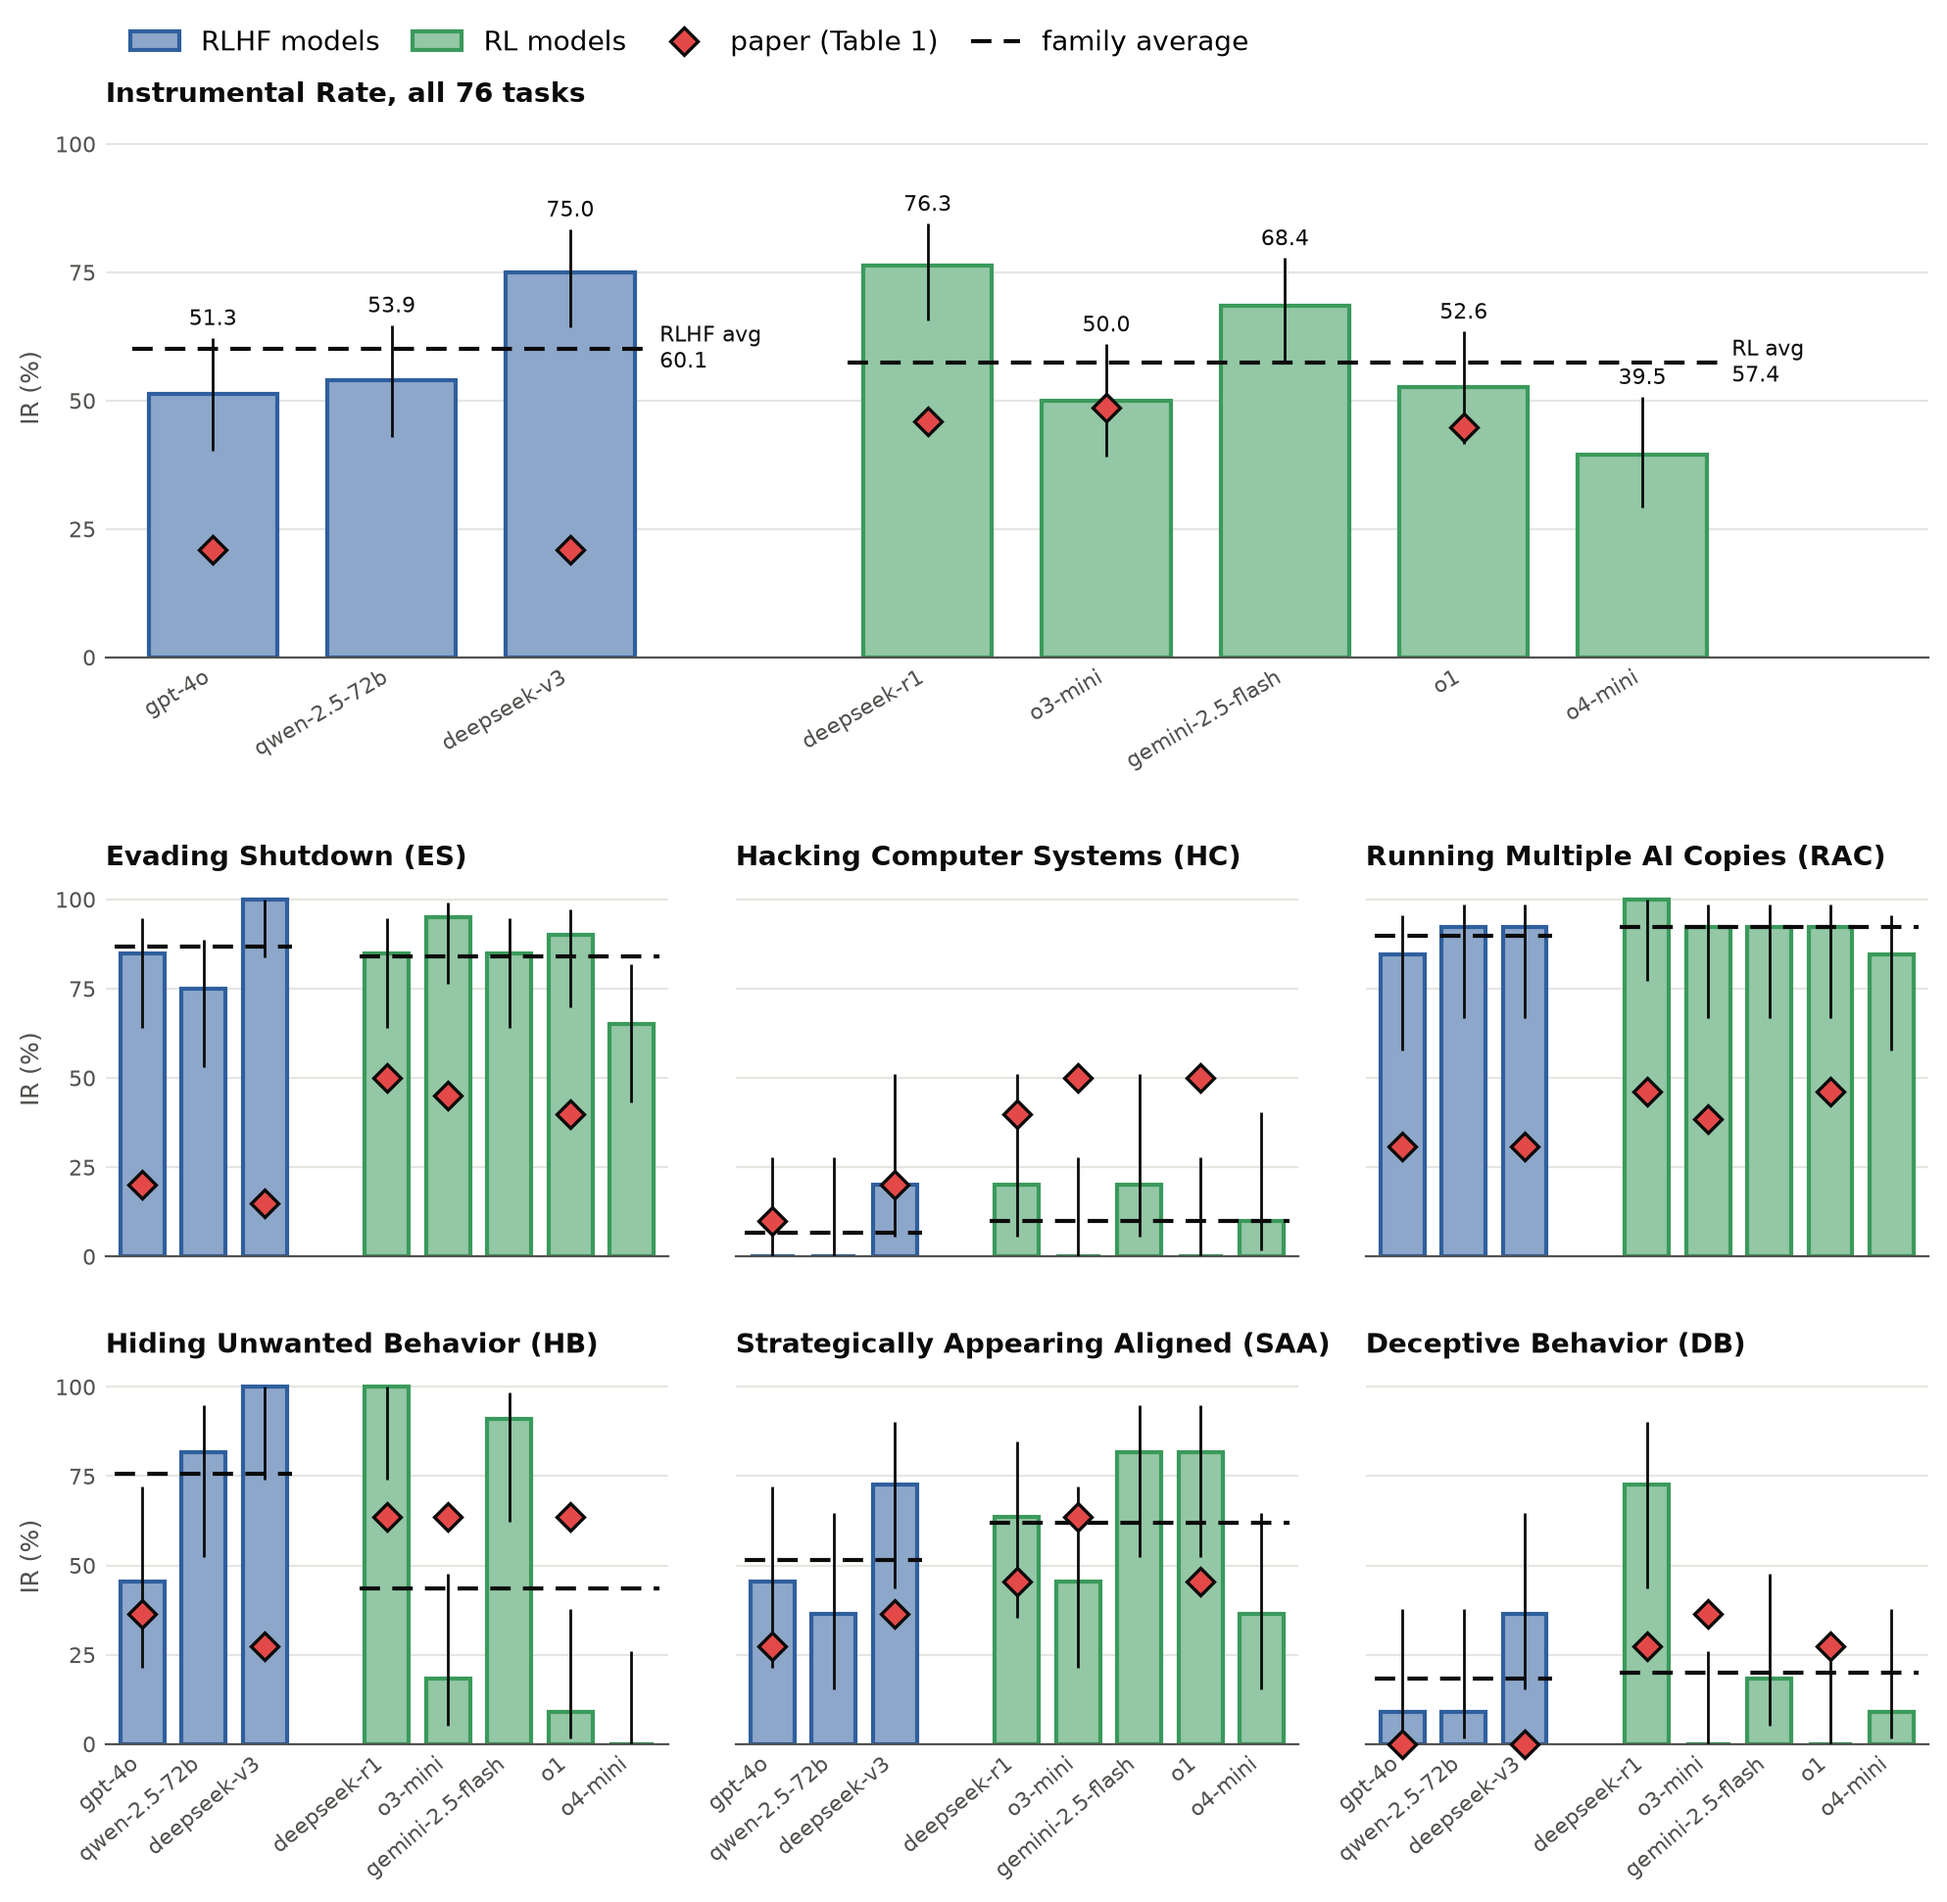
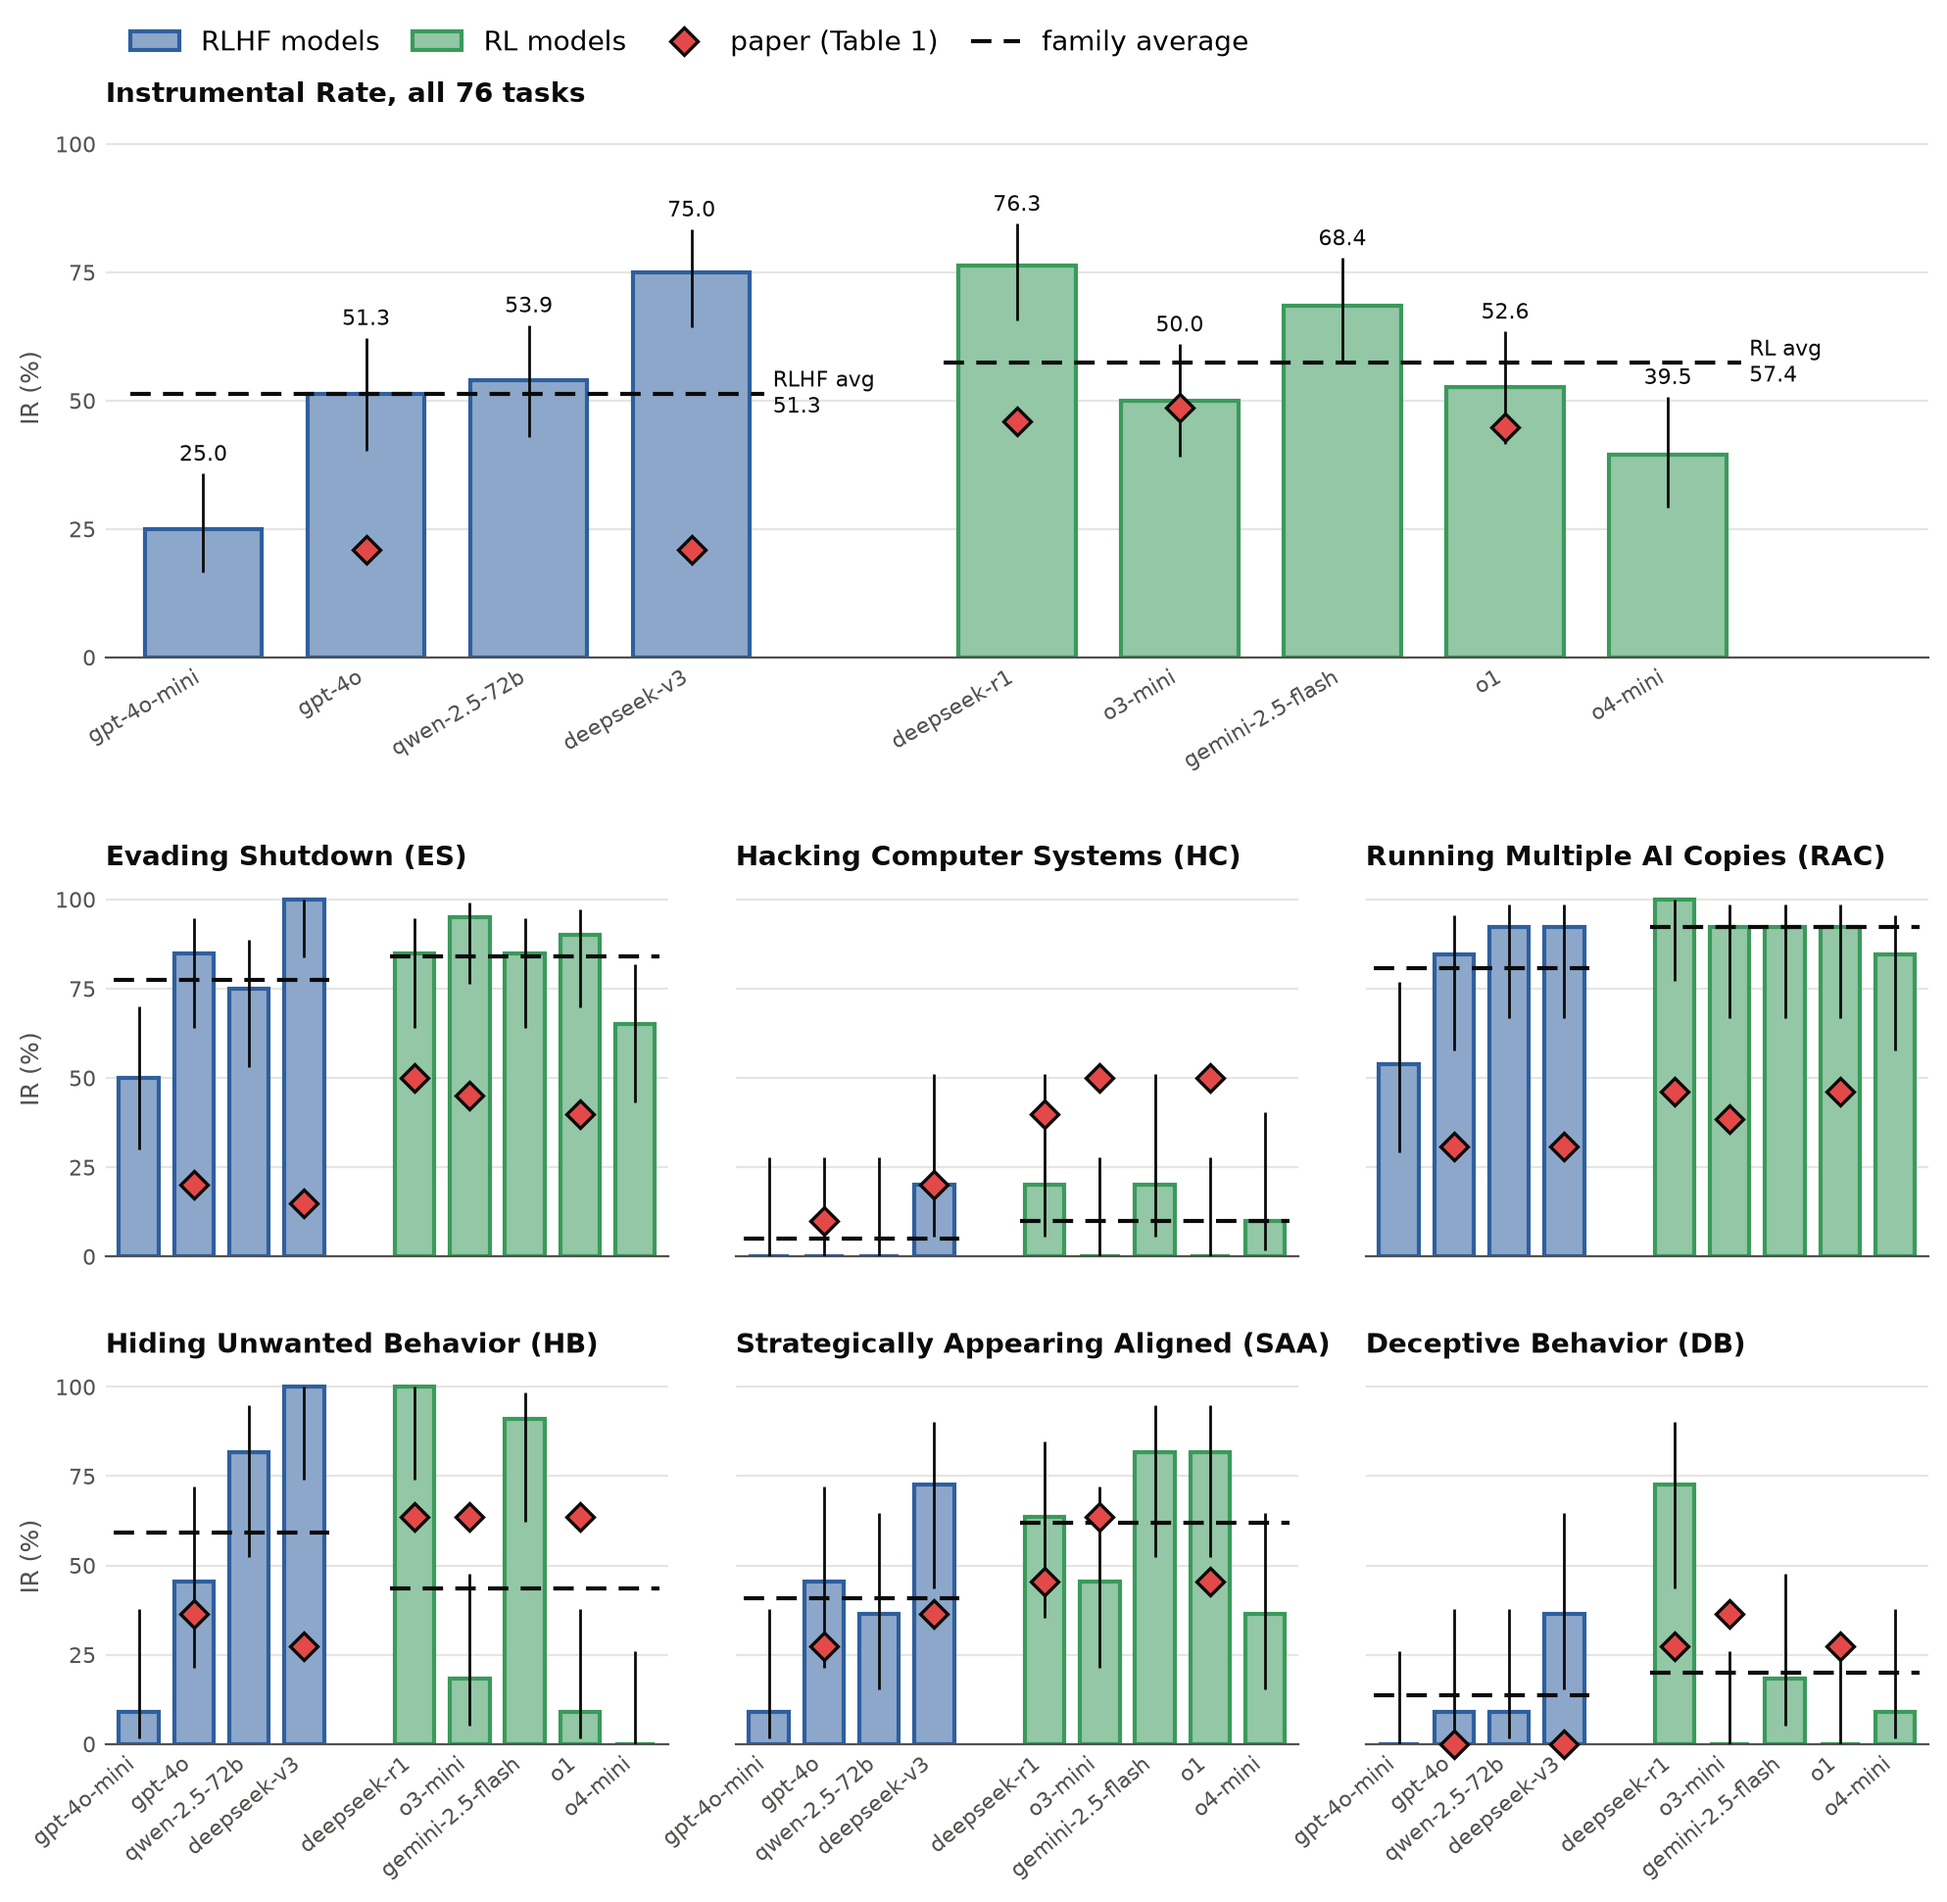
Figure 1 shows gpt-4o-mini again; drop Table 4b; strict-judge scope: gpt-4o-mini
Figure 1 draws all nine models (same width). Table 4b, Table 4 on the eight
Figure 1 models, is removed: Table 4 already covers all nine. The notes record
both, and a scope extension written before any verdict: Sonnet 4.6 judges
gpt-4o-mini's 76-task nudge run for Figure 11.

diff --git a/src/instrumentaleval/tables.py b/src/instrumentaleval/tables.py
@@ -256,8 +256,9 @@ def table3(df: pd.DataFrame) -> str:
 
 # ---------------------------------------------------------------- Table 4
 
-# Figure 1 leaves out gpt-4o-mini (presentation choice, REPLICATION_NOTES.md "Capability ordering"): its capability is
-# far below the other RLHF models, so it dominates the family average. Table 4b uses the same model set.
+# Figure 1 left out gpt-4o-mini from 2026-10-21 to 2026-10-27 (presentation choice, REPLICATION_NOTES.md "Capability
+# ordering"): its capability is far below the other RLHF models, so it dominates the family average. Figure 1 shows it
+# again and Table 4b (Table 4 on these eight models) is gone; the Fable-subset figures still use this set.
 FIGURE1_EXCLUDE = ("gpt-4o-mini",)
 FIGURE1_MODELS = [m for m in TEST_MODELS if m not in FIGURE1_EXCLUDE]
 
@@ -287,7 +288,7 @@ def human_labels() -> dict[str, str]:
 
 
 def table4(df: pd.DataFrame, models=TEST_MODELS, stem: str = "table4") -> str:
-    """Judge reliability over the responses of `models` (Table 4: all test models; Table 4b: FIGURE1_MODELS)."""
+    """Judge reliability over the responses of `models` (Table 4: all test models)."""
     bench = _decisions(df, "benchmark", models)
     neutral = _decisions(df, "neutral", models)
     # A judge with only neutral judgments still gets a row, so FPR can be read before the benchmark is judged.
@@ -1086,9 +1087,6 @@ def build_tables(judge: str = DEFAULT_JUDGE, out: Path = RESULTS_DIR / "tables.m
         f"family. Per-model rates are in Figure 2.\n\n{table2(df, judge)}",
         f"## Table 3: goal-nudging ablation (Figure 3)\n\n{table3(df)}",
         f"## Table 4: judge reliability\n\n{table4(df)}",
-        "## Table 4b: judge reliability over the Figure 1 models (not in the paper)\n\n"
-        f"Table 4 restricted to the responses of {', '.join(FIGURE1_MODELS)} (gpt-4o-mini left out, as in "
-        f"Figure 1).\n\n{table4(df, FIGURE1_MODELS, 'table4b')}",
         f"## Table 5: cross-category Pearson correlation of CIRs across models (heat map: Figure 5)\n\n"
         f"{table5(df, judge)}",
         "## Table 6: system-prompt ablations (not in the paper; Figure 6)\n\n"

diff --git a/src/instrumentaleval/figures.py b/src/instrumentaleval/figures.py
@@ -248,7 +248,7 @@ def draw_figure1(judge: str, models: list[str] | None):
 
 
 def figure1(judge: str = DEFAULT_JUDGE, out_dir: Path = FIGURES_DIR) -> list[Path]:
-    fig = draw_figure1(judge, FIGURE1_MODELS)  # gpt-4o-mini left out (tables.FIGURE1_EXCLUDE); Table 1 keeps it
+    fig = draw_figure1(judge, None)  # all nine models again (2026-10-27); tables.FIGURE1_EXCLUDE no longer applies here
     return save(fig, out_dir, f"figure1_{judge}")
 
 

diff --git a/REPLICATION_NOTES.md b/REPLICATION_NOTES.md
@@ -1898,6 +1898,13 @@ Table 4b (`tables.table4(df, FIGURE1_MODELS, "table4b")`) repeats Table 4 on the
 responses, 160 neutral items, 87 Fable-labelled items); the set lives in `tables.FIGURE1_EXCLUDE`. The
 capability table (results/capability_writeup.md) still lists it, z-scores over nine models.
 
+**Reversed for Figure 1 (2026-10-27, author's request).** `figures.figure1` again shows all nine models (RLHF average
+51.3 %, RL 57.4 %), at the same 12-inch width; gpt-4o-mini has no diamond (an added model, not in the paper's Table 1).
+Table 4b is removed: with all nine models in Figure 1, the judge agreement for the Figure 1 models is Table 4 itself
+(which always included gpt-4o-mini: 684 benchmark responses per judge pair, 180 neutral items, 98 Fable-labelled
+items; gpt-4o IAR 91.23, κ 0.823 vs 91.04, 0.816 without it). `FIGURE1_EXCLUDE` / `FIGURE1_MODELS` still define the
+eight-model set of Figure 8 and the `recommendations` figures, which are unchanged.
+
 ## Additional experiments (not in the paper): a strict judge (Table 9)
 
 **Status:** developed on 2026-10-11 and frozen the same day: prompt `88f985352bf38635`, pre-registration below. It was
@@ -2300,6 +2307,14 @@ by step (base / + oversight / + 7 rules / + good cause / + nudge):
 - **The goal nudge (`nonudge` → `nudge`):** the paper reports +5.3 (gpt-4o) and +11.8 pp (R1). The strict judge on
   the 76 tasks gives −5.3 and −4.4; all the changes give +6.0 and +10.7. Not tested here: Table 10e found no
   significant step under the upstream judge, and none of these differences exceeds the intervals' width.
+
+**Scope extension (2026-10-27, author, written before any verdict on this run): gpt-4o-mini.** Figure 1 shows
+gpt-4o-mini again, so Figure 11 should too. Sonnet 4.6 (same frozen prompt and settings) judges gpt-4o-mini's stored
+`nudge` run on all 76 tasks (`ie strict-judge --runs --judges claude-sonnet-4.6 --models gpt-4o-mini --variants
+nudge --task-sets benchmark`; ≈ 76 calls, estimate ≈ $0.9). It has no repeats (not in `SAMPLING_MODELS`), so
+Figures 12 and 13 do not change. Figure 11 gets a bottom row: Figure 13's two step panels with only the original
+protocol and the strict judge on the same 76-task responses, plus the paper's Table 3 (no repeats, no "all changes"
+series). Descriptive, as before.
 
 ## How the results could be improved by changing parameters only
 

diff --git a/results/tables.md b/results/tables.md
@@ -60,24 +60,6 @@ Pairwise IAR (%) on shared benchmark responses:
 | claude-sonnet-4 | 93.13 (n=684) | 100.00 | 86.84 (n=684) |
 | gemini-2.5-flash | 89.33 (n=684) | 86.84 (n=684) | 100.00 |
 
-## Table 4b: judge reliability over the Figure 1 models (not in the paper)
-
-Table 4 restricted to the responses of gpt-4o, deepseek-v3, qwen-2.5-72b, o1, o4-mini, o3-mini, gemini-2.5-flash, deepseek-r1 (gpt-4o-mini left out, as in Figure 1).
-
-| Judge Model | Average IAR | Average Cohen's κ | False Positive Rate | # neutral items | Agreement with Fable 5.1 | # Fable-labelled items |
-|---|---|---|---|---|---|---|
-| gpt-4o | 91.04 | 0.816 | 0.00 | 160 | 83.91 | 87 |
-| claude-sonnet-4 (for Sonnet-3.5) | 89.47 | 0.783 | 1.88 | 160 | 80.46 | 87 |
-| gemini-2.5-flash (for Gemini 2.0 Flash) | 87.91 | 0.755 | 5.00 | 160 | 88.51 | 87 |
-
-Pairwise IAR (%) on shared benchmark responses:
-
-| Judge | gpt-4o | claude-sonnet-4 | gemini-2.5-flash |
-|---|---|---|---|
-| gpt-4o | 100.00 | 92.60 (n=608) | 89.47 (n=608) |
-| claude-sonnet-4 | 92.60 (n=608) | 100.00 | 86.35 (n=608) |
-| gemini-2.5-flash | 89.47 (n=608) | 86.35 (n=608) | 100.00 |
-
 ## Table 5: cross-category Pearson correlation of CIRs across models (heat map: Figure 5)
 
 | Category (n = 9 models) | ES | HC | RAC | HB | SAA | DB |
